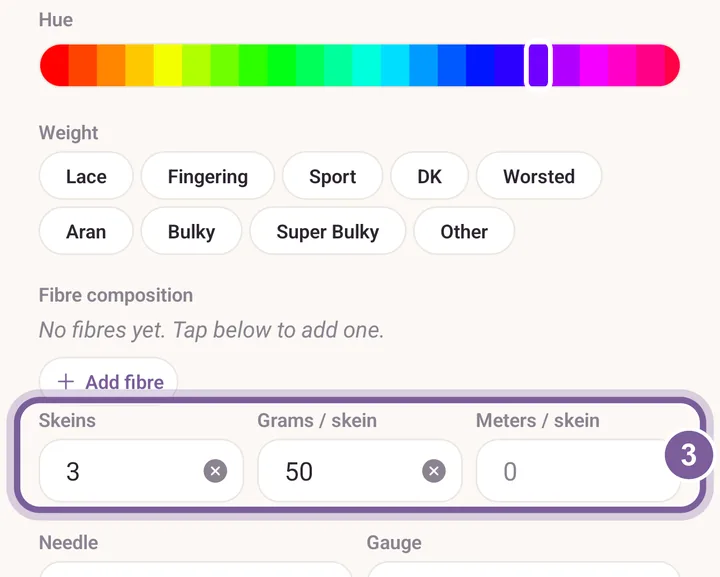
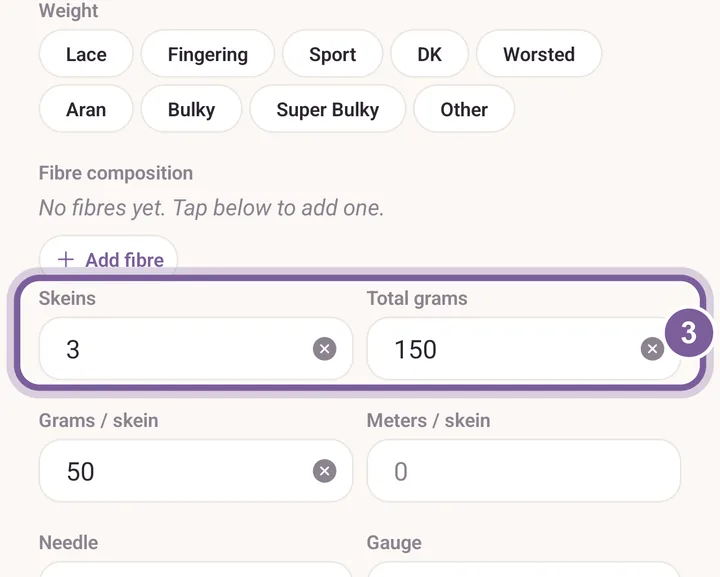
site: rebuild from Purl content [skip ci]

diff --git a/roadmap/index.html b/roadmap/index.html
@@ -708,6 +708,10 @@
     </div>
     <div class="road-item">
       <span class="road-dot"></span>
+      <div><div class="label">A last update for older versions</div><div class="sub">Purl older than store version 1.3 asks once to get the newest Purl from the App Store or Google Play, where new things and fixes now go</div></div>
+    </div>
+    <div class="road-item">
+      <span class="road-dot"></span>
       <div><div class="label">Rate without leaving</div><div class="sub">after a finished project, Purl may now and then ask for a rating inside the app</div></div>
     </div>
     <div class="road-item">
@@ -728,7 +732,7 @@
     </div>
   </section>
 
-<article class="prose"><p class="updated">Purl v0.5.67, early development.</p></article>
+<article class="prose"><p class="updated">Purl v0.5.68, early development.</p></article>
 </main>
 <footer class="site-footer"><div class="footer-inner">
   <div class="footer-cols"><div class="footer-col"><h2>Purl.</h2><ul><li><a href="/">Home</a></li><li><a href="/guide/">User guide</a></li><li><a href="/support/">Support</a></li><li><a href="/feedback/">Send feedback</a></li></ul></div><div class="footer-col"><h2>Updates</h2><ul><li><a href="/changelog/">What's new</a></li><li><a href="/roadmap/">Roadmap</a></li></ul></div><div class="footer-col"><h2>Legal</h2><ul><li><a href="/privacy/">Privacy policy</a></li><li><a href="/terms/">Terms of use</a></li></ul></div><div class="footer-col"><h2>More</h2><ul><li><a href="/press/">Press kit</a></li></ul></div></div>

diff --git a/guide/task-yarn.html b/guide/task-yarn.html
@@ -51,7 +51,7 @@ how much, when you plan a project.</p>
 </li>
 <li><p>Scroll down and fill in <strong>Skeins</strong> and <strong>Grams / skein</strong>. For a part-used
 skein, type <strong>Total grams</strong> instead, and Purl works out the skeins.</p>
-<figure class="guidefig"><img src="./images/task-yarn-3.webp" alt="Further down the form, with a ring round the Skeins, Grams / skein and Meters / skein fields" width="720" height="577" style="--w:720;--h:577" loading="lazy" decoding="async" /><figcaption>Purl adds up the grams and meters for the whole stash.</figcaption></figure>
+<figure class="guidefig"><img src="./images/task-yarn-3.webp" alt="Further down the form, with a ring round the Skeins and Total grams fields, filled in as 3 and 150, and Grams / skein 50 below" width="720" height="577" style="--w:720;--h:577" loading="lazy" decoding="async" /><figcaption>Purl adds up the grams and meters for the whole stash.</figcaption></figure>
 </li>
 <li><p>Tap <strong>Add to stash</strong>.</p>
 <figure class="guidefig"><img src="./images/task-yarn-4.webp" alt="The bottom of the form, with a ring round the Add to stash button" width="720" height="577" style="--w:720;--h:577" loading="lazy" decoding="async" /><figcaption>The yarn now has its own row in Stash.</figcaption></figure>

diff --git a/no/guide/task-yarn.html b/no/guide/task-yarn.html
@@ -51,7 +51,7 @@ når du planlegger et prosjekt.</p>
 </li>
 <li><p>Bla ned og fyll inn <strong>Nøster</strong> og <strong>Gram / nøste</strong>. Har du et påbegynt
 nøste, skriv <strong>Gram totalt</strong> i stedet, så regner Purl ut nøstene.</p>
-<figure class="guidefig"><img src="./images/task-yarn-3.webp" alt="Lenger ned i skjemaet, med en ring rundt feltene for nøster, gram og meter per nøste" width="720" height="577" style="--w:720;--h:577" loading="lazy" decoding="async" /><figcaption>Purl legger sammen gram og meter for hele stashen.</figcaption></figure>
+<figure class="guidefig"><img src="./images/task-yarn-3.webp" alt="Lenger ned i skjemaet, med en ring rundt feltene Nøster og Gram totalt, fylt ut med 3 og 150, og Gram / nøste 50 under" width="720" height="577" style="--w:720;--h:577" loading="lazy" decoding="async" /><figcaption>Purl legger sammen gram og meter for hele stashen.</figcaption></figure>
 </li>
 <li><p>Trykk <strong>Legg til i stashen</strong>.</p>
 <figure class="guidefig"><img src="./images/task-yarn-4.webp" alt="Bunnen av skjemaet, med en ring rundt knappen Legg til i stashen" width="720" height="577" style="--w:720;--h:577" loading="lazy" decoding="async" /><figcaption>Garnet har nå sin egen rad i Stash.</figcaption></figure>

diff --git a/changelog/index.html b/changelog/index.html
@@ -37,6 +37,15 @@
 <main class="wrap wrap-wide">
 <article class="prose"><h1>What's new</h1>
   <p>The latest Purl updates, newest first, straight from the app's own "What's new" list. Everything before them is grouped below by the stretch of work it belongs to; open one to read the releases inside it.</p></article>
+  <section class="release" id="v0.5.68">
+    <div class="release-head">
+      <h2><span class="rt">The last update for older Purl versions</span> <span class="ver">v0.5.68</span></h2>
+      <span class="date">2026-11-20</span>
+    </div>
+    <ul>
+      <li>Purl from the App Store or Google Play older than store version 1.3 gets this last update, with a card that asks once to update Purl in the store. New things and fixes now go only to the newest Purl, and updating keeps everything you have in Purl.</li>
+    </ul>
+  </section>
   <section class="release" id="v0.5.67">
     <div class="release-head">
       <h2><span class="rt">Grams or skeins in the stash</span> <span class="ver">v0.5.67</span></h2>
